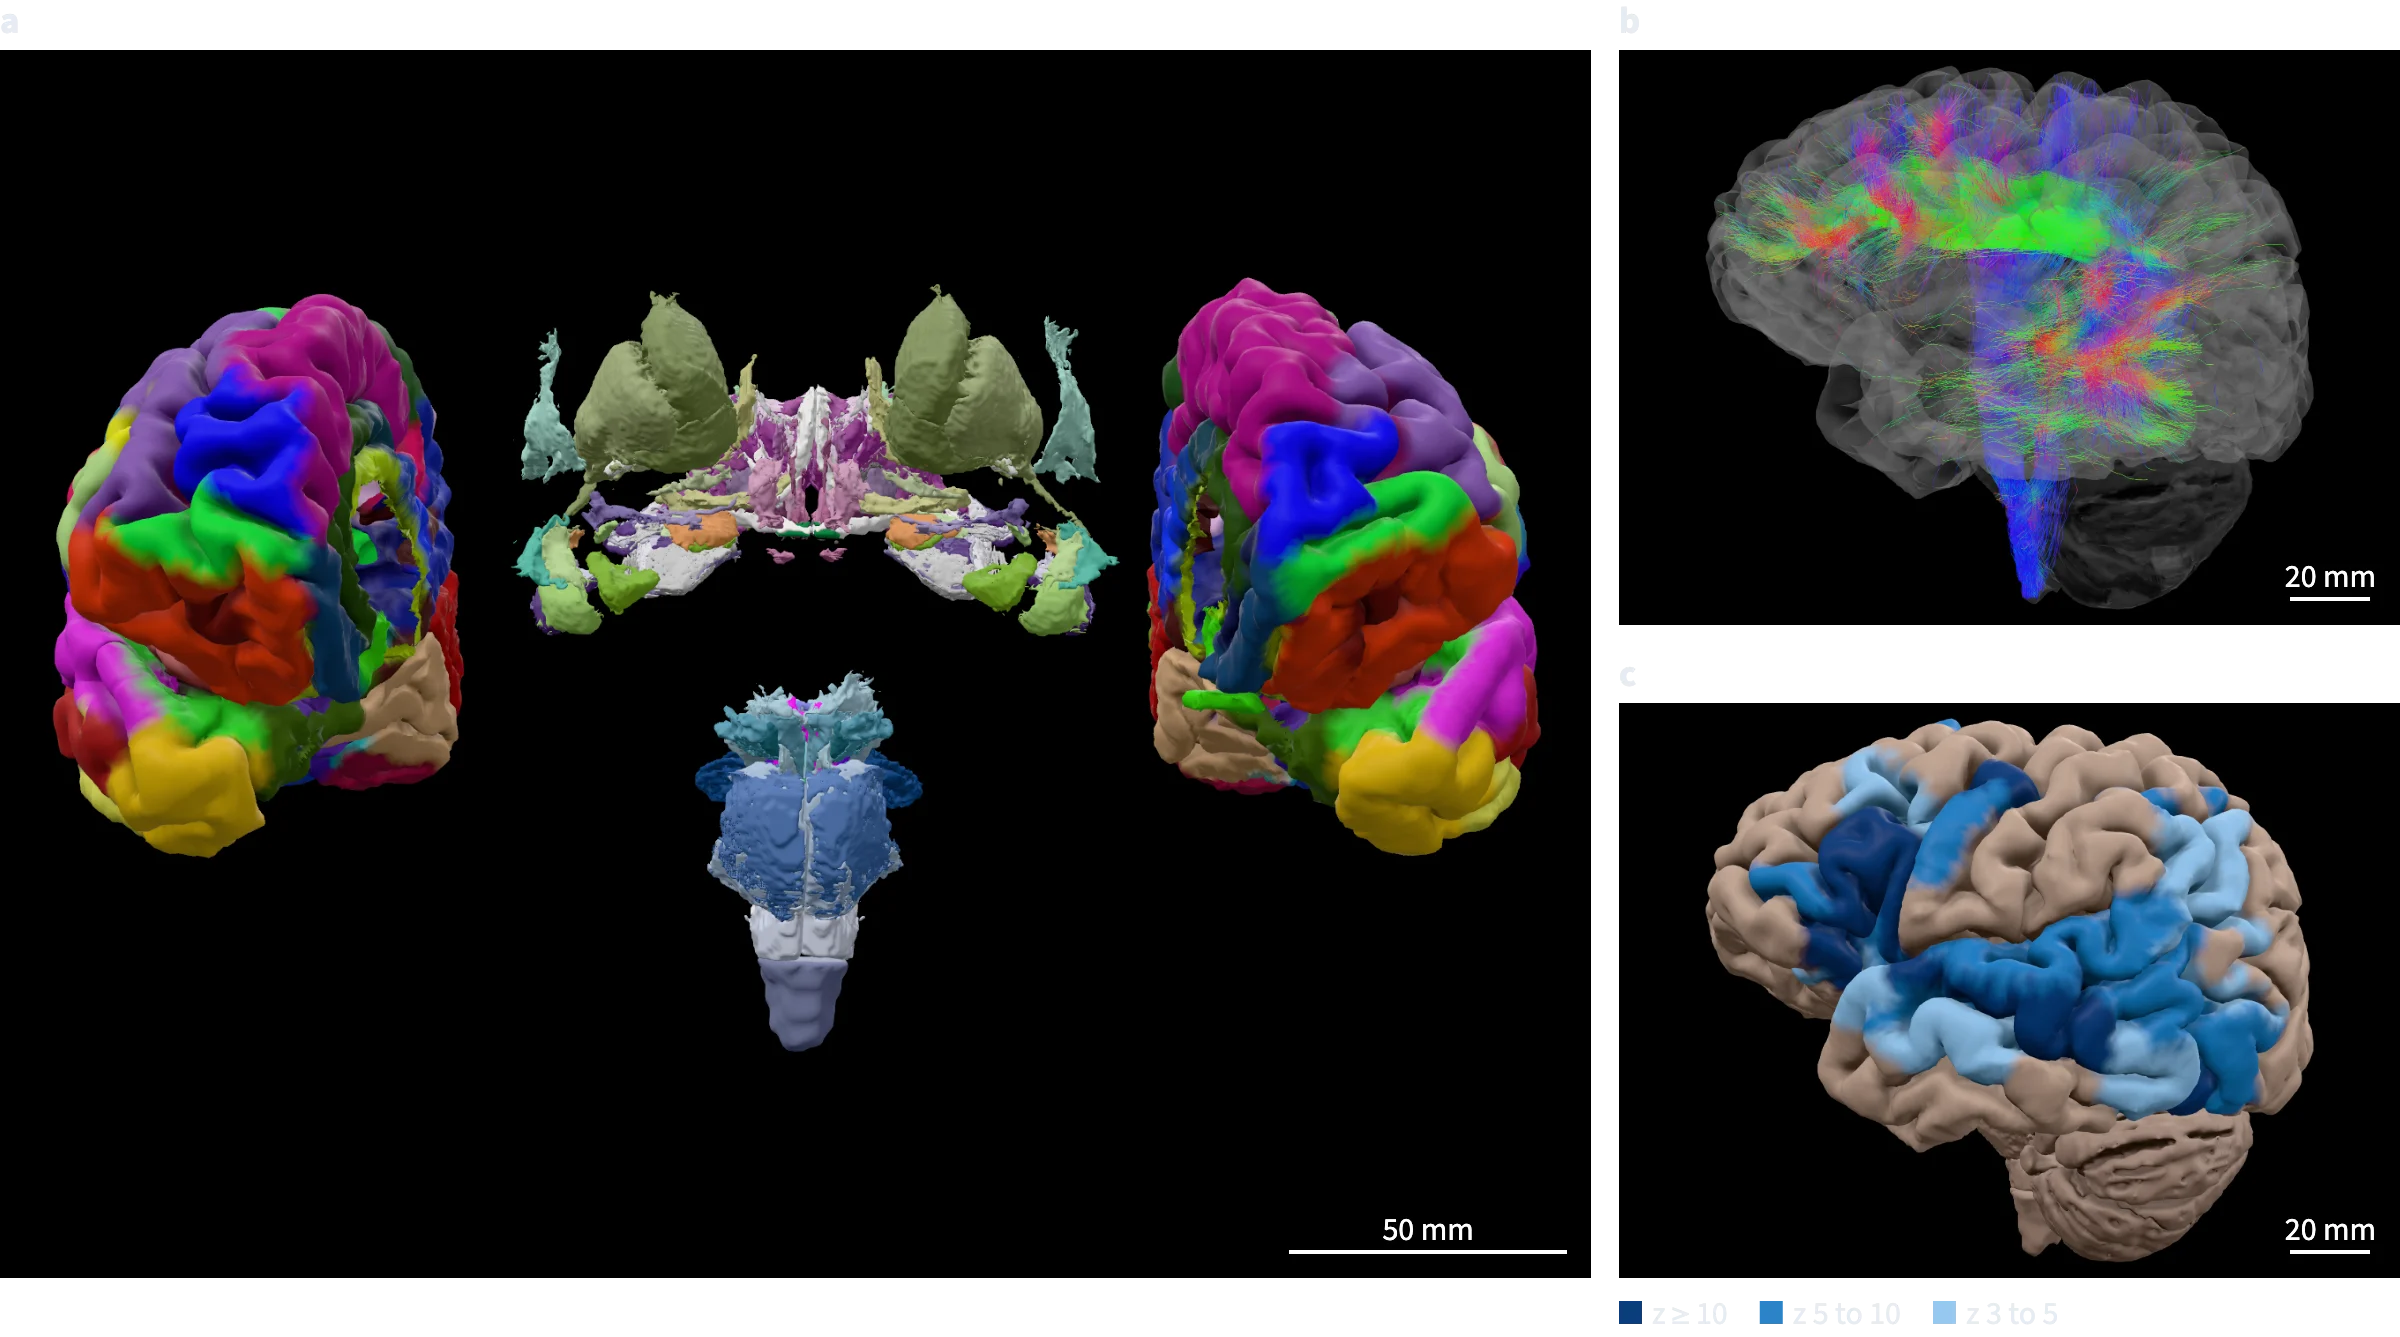
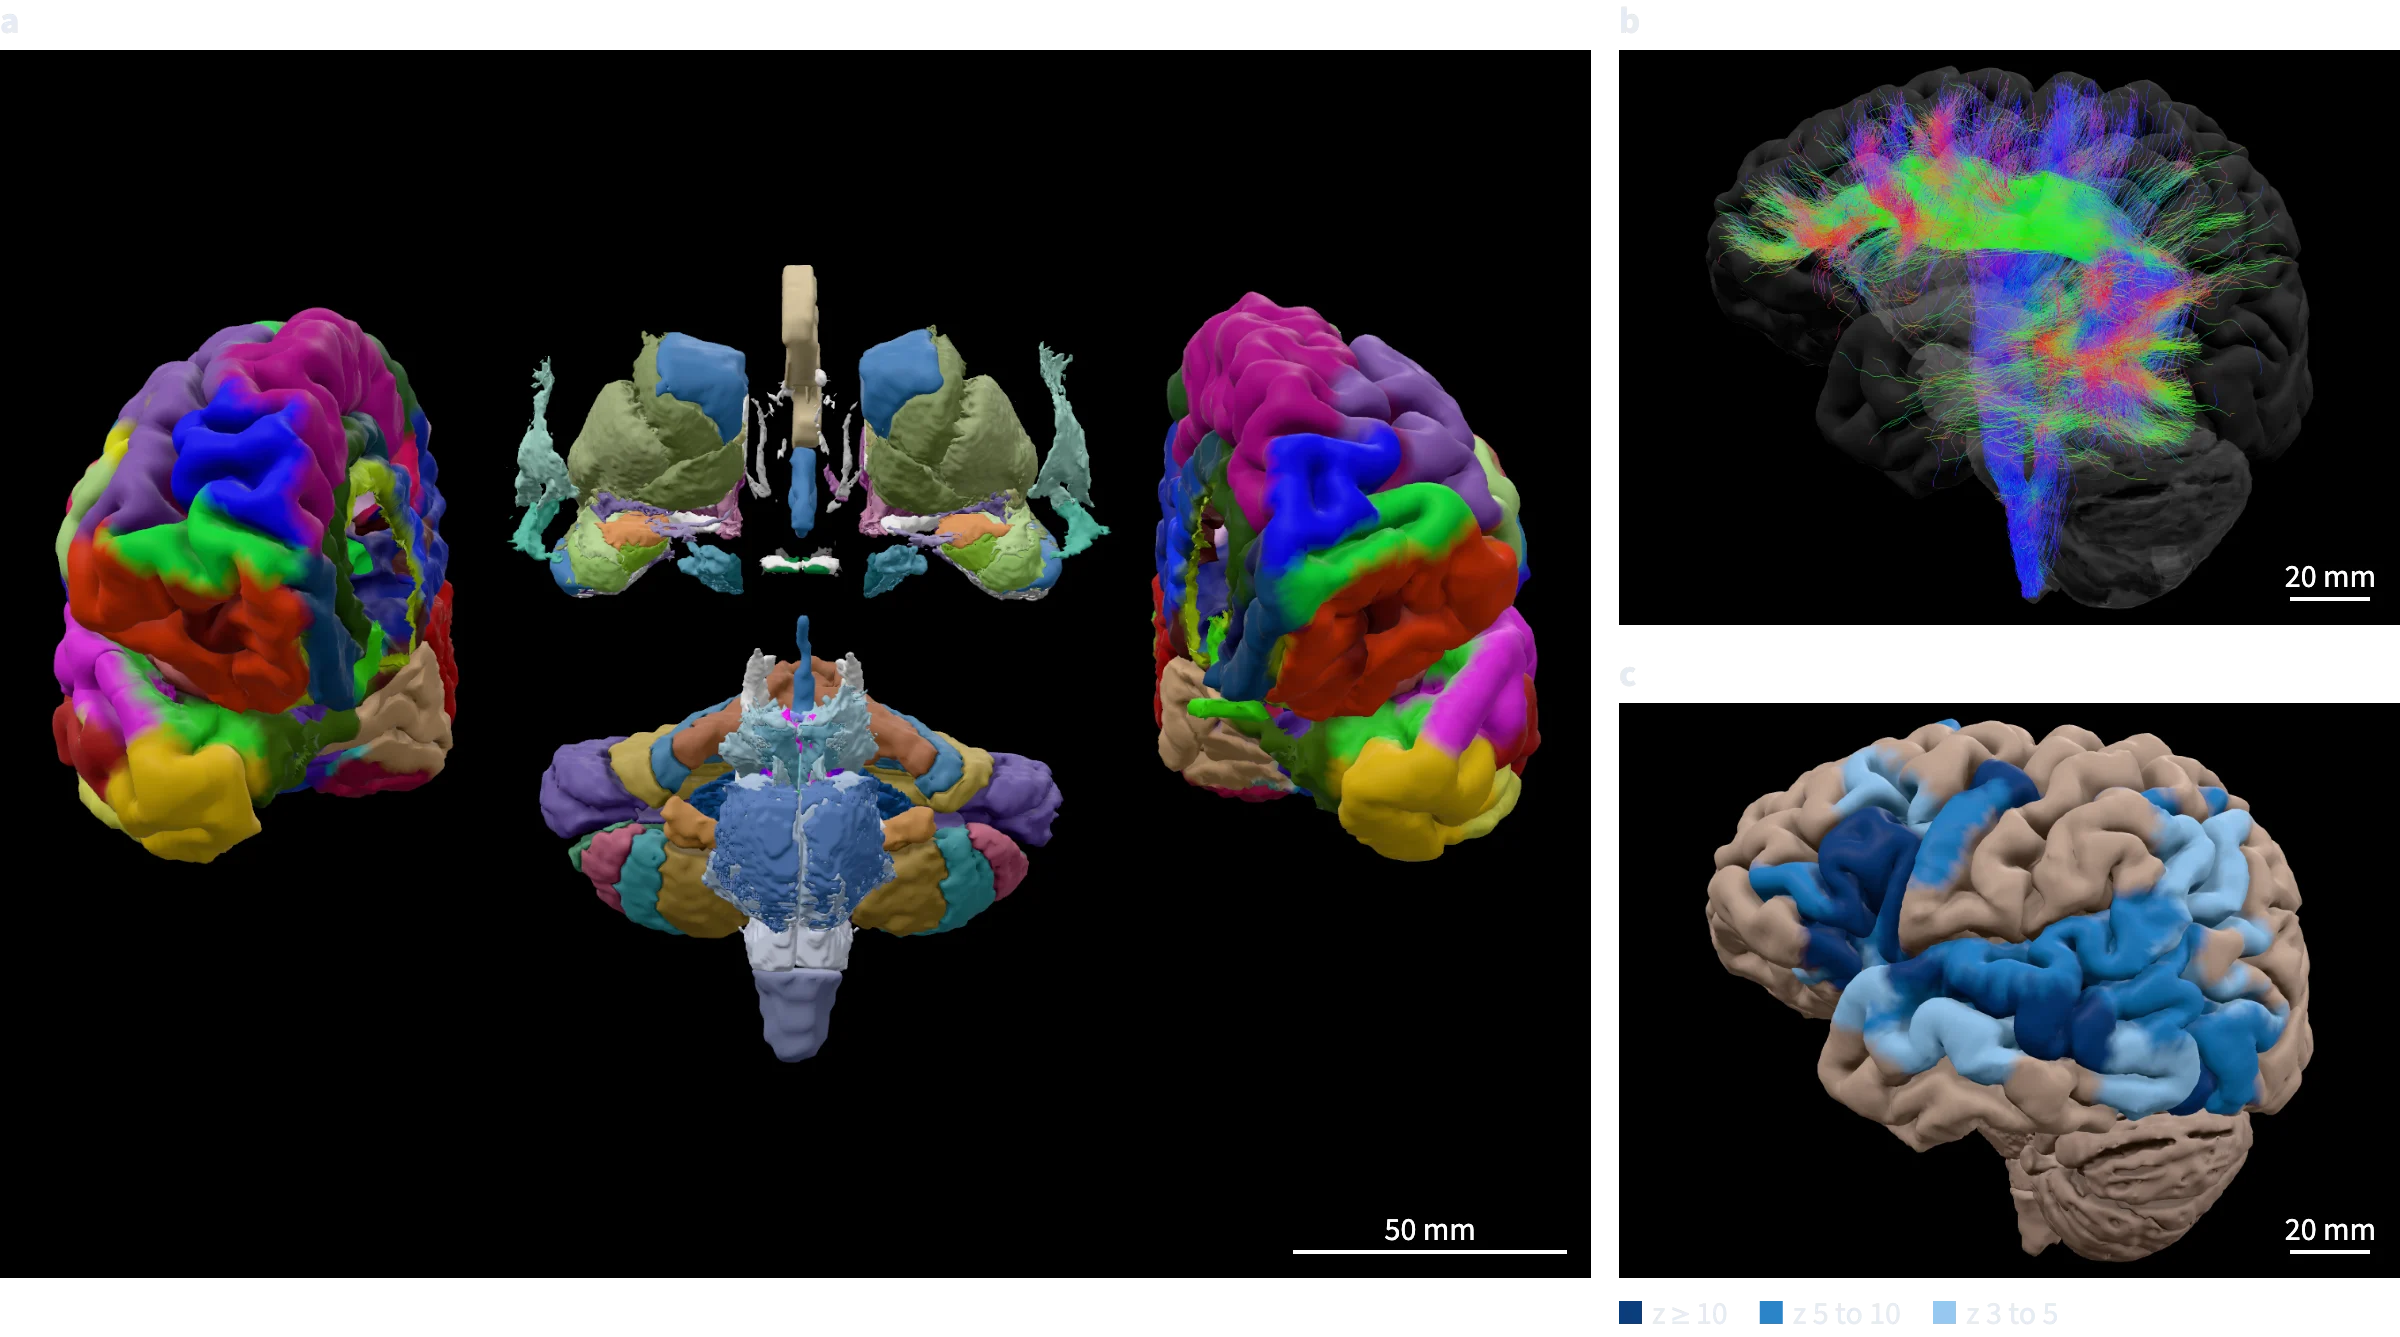
Re-render the README's first figure with the exploded view's whole structures
Panel a showed the NextBrain level's exploded view as it was laid out
before 25b75443, and before that level drew the cerebellar lobules,
corpus callosum and ventricles. The figure is rendered again from
25b75443, and its legend and alt text in the README and the docs index
describe what it now shows.

Changed region(s): [[0.0, 0.184, 0.6562, 0.644], [0.6875, 0.0613, 0.9688, 0.368], [0.2188, 0.46, 0.4688, 0.7973]]

diff --git a/docs/index.md b/docs/index.md
@@ -9,10 +9,10 @@ Planum is an atlas of the human brain in which cortical and deep parcellations, 
 Each page below documents one feature in a fixed order: data, method, display, validation, limitations and code availability. Every parameter and measured value is taken from the repository's code, published files and tests. Planum is for research and education. It is not clinical anatomy.
 
 ```{figure} ../.github/assets/readme/overview-light.webp
-:alt: Three panels. a, the brain seen from the front in an exploded view, the two hemispheres in Destrieux colours pulled apart sideways, with the deep structures in NextBrain colours spread between them and the brainstem and cervical cord below. b, the left arcuate fasciculus and corticospinal tract inside a translucent cortex, coloured by direction. c, the left hemisphere with language areas painted in three blues, and a key of the three z bands under it.
+:alt: Three panels. a, the brain seen from the front in an exploded view, the two hemispheres in Destrieux colours pulled apart sideways, with the deep structures in NextBrain colours parted between them, the corpus callosum on the midline, and the brainstem, cerebellum and cervical cord below. b, the left arcuate fasciculus and corticospinal tract inside a translucent cortex, coloured by direction. c, the left hemisphere with language areas painted in three blues, and a key of the three z bands under it.
 :name: fig-index-1
 
-**Every layer is registered onto one subject's anatomy.** **a**, [Exploded view](https://planumatlas.com/#anatomy=cdmd&lang=en&atlas=destrieux&detail=nextbrain&view=anterior&explode=1) of CDMD `sub_013`, seen from the front. The hemispheres carry Destrieux colours and NextBrain's deep structures are spread by system between them, each moved whole and never reshaped ([dissection and display](features/dissection-and-display.md#exploded-view)). NextBrain gives the cerebellar nuclei a surface but not the cerebellar cortex. **b**, [Left arcuate fasciculus and corticospinal tract](https://planumatlas.com/#anatomy=cdmd&lang=en&atlas=destrieux&detail=learning&tab=diffusion&view=left&opacity=0.16&tracts=af-left,cst-left) from the subject's own diffusion scan, seen from the left inside a cortex at 16% opacity. Streamlines are coloured by local direction (red left–right, green anterior–posterior, blue superior–inferior). **c**, [Neurosynth map for language](https://planumatlas.com/#anatomy=cdmd&lang=en&atlas=hcp-mmp&detail=learning&view=left&tab=functions&function=language) on HCP-MMP areas, seen from the left. Areas are painted where the mean z is at least 3, in the three bands of the key. Scale bars apply at the depth of the camera's target.
+**Every layer is registered onto one subject's anatomy.** **a**, [Exploded view](https://planumatlas.com/#anatomy=cdmd&lang=en&atlas=destrieux&detail=nextbrain&view=anterior&explode=1) of CDMD `sub_013`, seen from the front. The hemispheres carry Destrieux colours. NextBrain's deep structures part between them, most of each side as one piece. Every structure is moved whole, never reshaped or taken apart ([dissection and display](features/dissection-and-display.md#exploded-view)). The cerebellar lobules, corpus callosum and ventricles are the teaching set's, drawn on this level. **b**, [Left arcuate fasciculus and corticospinal tract](https://planumatlas.com/#anatomy=cdmd&lang=en&atlas=destrieux&detail=learning&tab=diffusion&view=left&opacity=0.16&tracts=af-left,cst-left) from the subject's own diffusion scan, seen from the left inside a cortex at 16% opacity. Streamlines are coloured by local direction (red left–right, green anterior–posterior, blue superior–inferior). **c**, [Neurosynth map for language](https://planumatlas.com/#anatomy=cdmd&lang=en&atlas=hcp-mmp&detail=learning&view=left&tab=functions&function=language) on HCP-MMP areas, seen from the left. Areas are painted where the mean z is at least 3, in the three bands of the key. Scale bars apply at the depth of the camera's target.
 ```
 
 (why-one-brain)=

diff --git a/README.md b/README.md
@@ -24,10 +24,10 @@
 
 <picture>
   <source media="(prefers-color-scheme: dark)" srcset=".github/assets/readme/overview-dark.webp">
-  <img src=".github/assets/readme/overview-light.webp" alt="Three panels. a, the brain seen from the front in an exploded view, the two hemispheres in Destrieux colours pulled apart sideways, with the deep structures in NextBrain colours spread between them and the brainstem and cervical cord below. b, the left arcuate fasciculus and corticospinal tract inside a translucent cortex, coloured by direction. c, the left hemisphere with language areas painted in three blues, and a key of the three z bands under it.">
+  <img src=".github/assets/readme/overview-light.webp" alt="Three panels. a, the brain seen from the front in an exploded view, the two hemispheres in Destrieux colours pulled apart sideways, with the deep structures in NextBrain colours parted between them, the corpus callosum on the midline, and the brainstem, cerebellum and cervical cord below. b, the left arcuate fasciculus and corticospinal tract inside a translucent cortex, coloured by direction. c, the left hemisphere with language areas painted in three blues, and a key of the three z bands under it.">
 </picture>
 
-<sub><b>Fig. 1 | Every layer is registered onto one brain.</b> <b>a</b>, <a href="https://planumatlas.com/#anatomy=cdmd&lang=en&atlas=destrieux&detail=nextbrain&view=anterior&explode=1">Exploded view</a>, seen from the front. The hemispheres carry Destrieux colours, and NextBrain’s deep structures are spread by system between them, each moved whole and never reshaped. NextBrain gives the cerebellar nuclei a surface but not the cerebellar cortex. <b>b</b>, <a href="https://planumatlas.com/#anatomy=cdmd&lang=en&atlas=destrieux&detail=learning&tab=diffusion&view=left&opacity=0.16&tracts=af-left,cst-left">Left arcuate fasciculus and corticospinal tract</a> from the subject’s own diffusion MRI, seen from the left inside a cortex at 16% opacity and coloured by local direction (red left–right, green anterior–posterior, blue superior–inferior). <b>c</b>, <a href="https://planumatlas.com/#anatomy=cdmd&lang=en&atlas=hcp-mmp&detail=learning&view=left&tab=functions&function=language">Neurosynth map for language</a> on HCP-MMP areas, seen from the left. Areas with a mean z of at least 3 are painted in the three bands of the key. Scale bars apply at the depth of the camera’s target.</sub>
+<sub><b>Fig. 1 | Every layer is registered onto one brain.</b> <b>a</b>, <a href="https://planumatlas.com/#anatomy=cdmd&lang=en&atlas=destrieux&detail=nextbrain&view=anterior&explode=1">Exploded view</a>, seen from the front. The hemispheres carry Destrieux colours. NextBrain’s deep structures part between them, most of each side as one piece. Every structure is moved whole, never reshaped or taken apart. The cerebellar lobules, corpus callosum and ventricles are the teaching set’s, drawn on this level. <b>b</b>, <a href="https://planumatlas.com/#anatomy=cdmd&lang=en&atlas=destrieux&detail=learning&tab=diffusion&view=left&opacity=0.16&tracts=af-left,cst-left">Left arcuate fasciculus and corticospinal tract</a> from the subject’s own diffusion MRI, seen from the left inside a cortex at 16% opacity and coloured by local direction (red left–right, green anterior–posterior, blue superior–inferior). <b>c</b>, <a href="https://planumatlas.com/#anatomy=cdmd&lang=en&atlas=hcp-mmp&detail=learning&view=left&tab=functions&function=language">Neurosynth map for language</a> on HCP-MMP areas, seen from the left. Areas with a mean z of at least 3 are painted in the three bands of the key. Scale bars apply at the depth of the camera’s target.</sub>
 
 ## Overview
 
